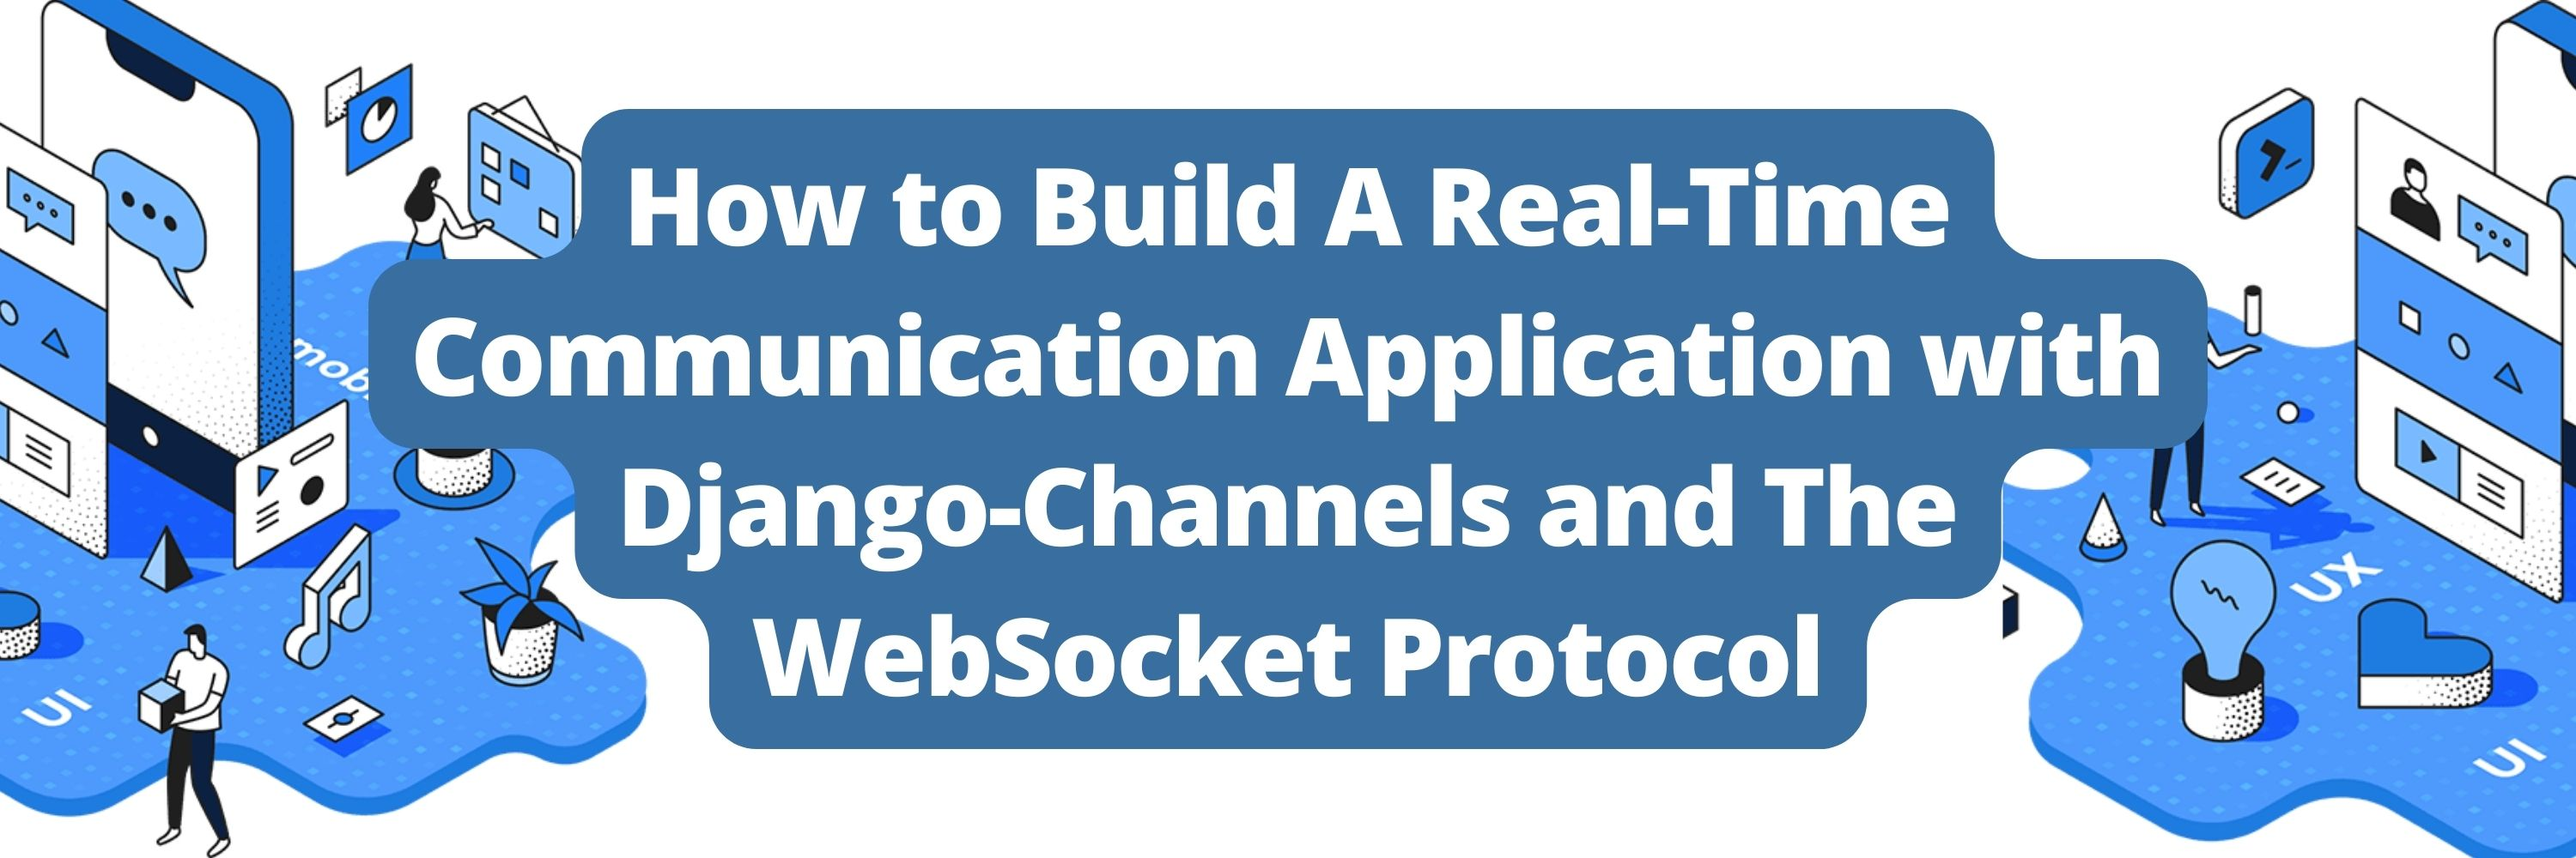
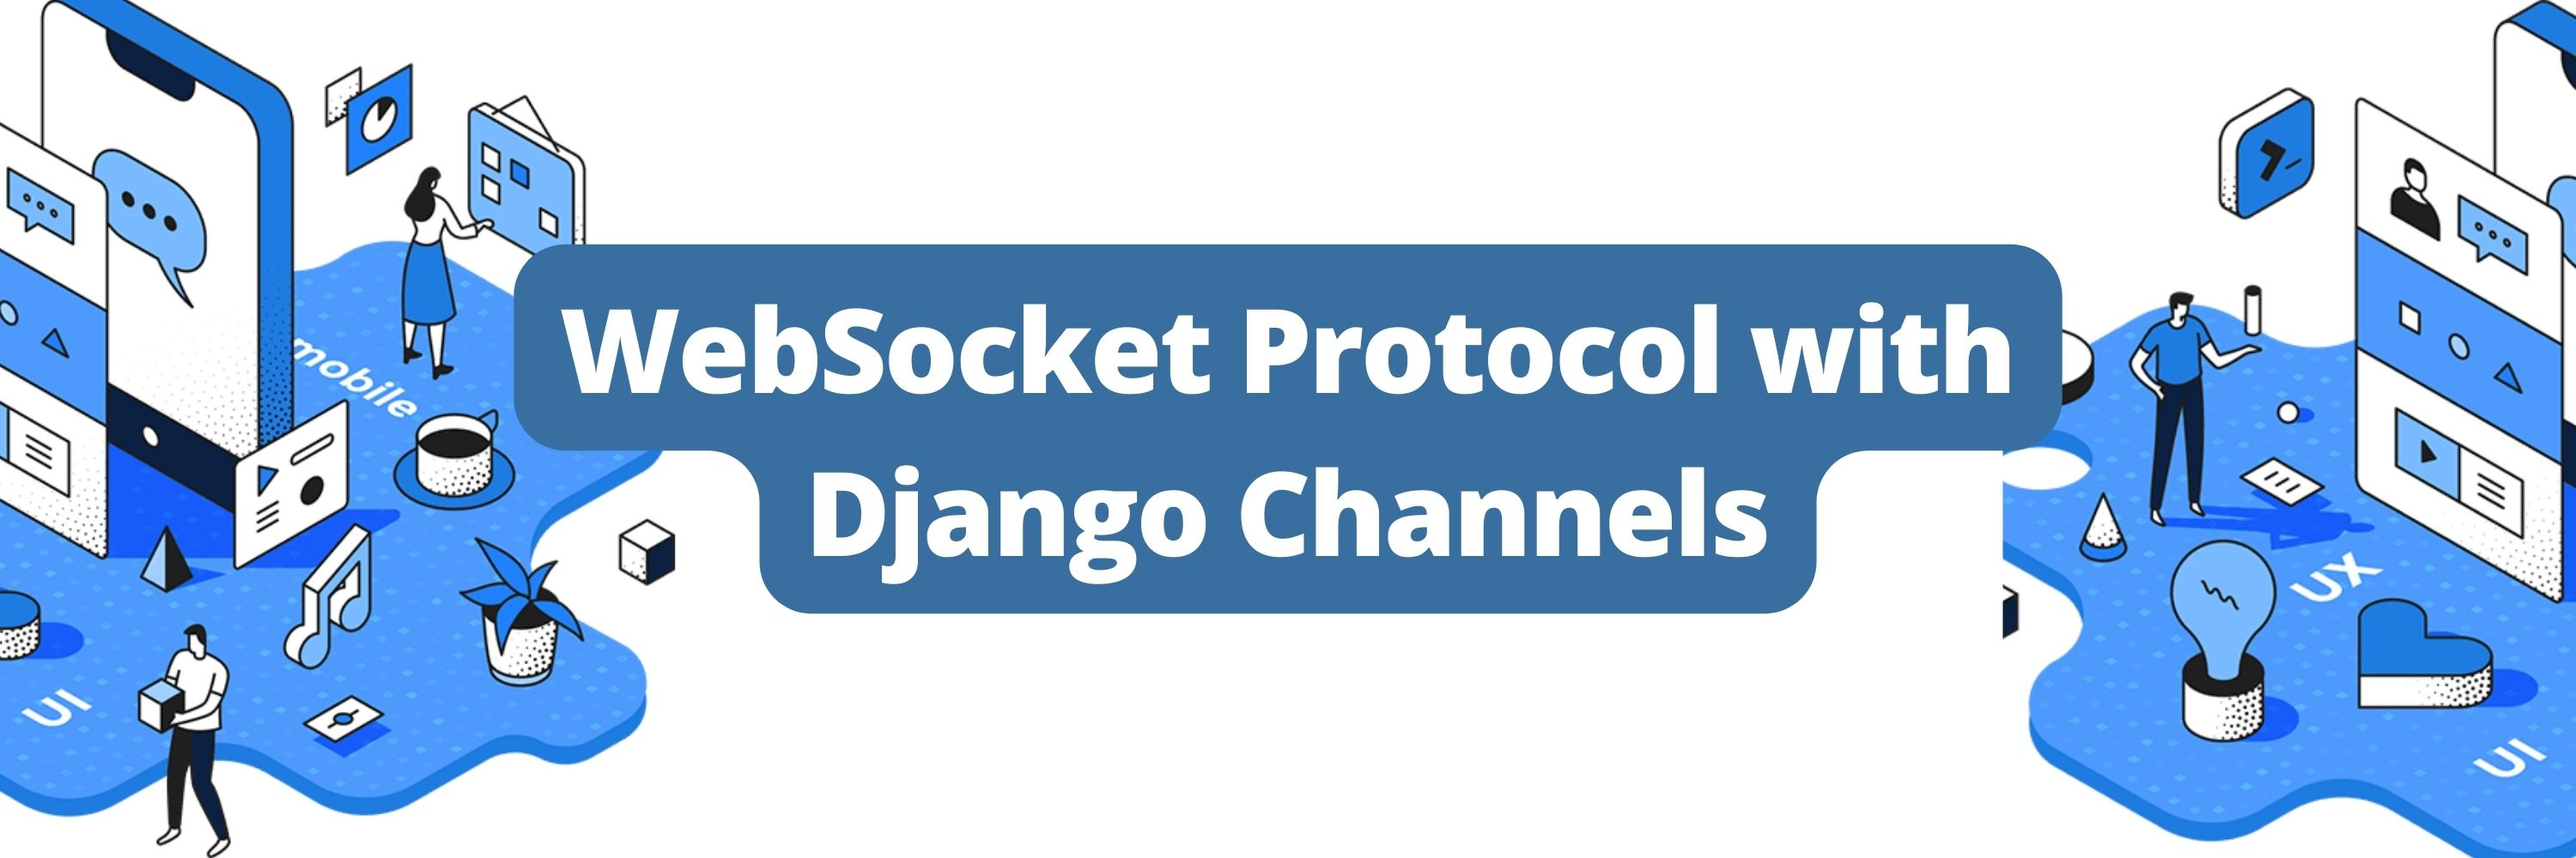
Changed title & header of blog 2

Changed region(s): [[0.124, 0.124, 0.868, 0.899]]

diff --git a/blog/_posts/2022-10-04-build-real-time-comm-app.md b/blog/_posts/2022-10-04-build-real-time-comm-app.md
@@ -1,5 +1,5 @@
 ---
-title: "How to Build A Real-Time Communication Application with Django-Channels and The WebSocket Protocol"
+title: "WebSocket Protocol with Django Channelsax"
 categories:
   - Tutorials
 toc: true
